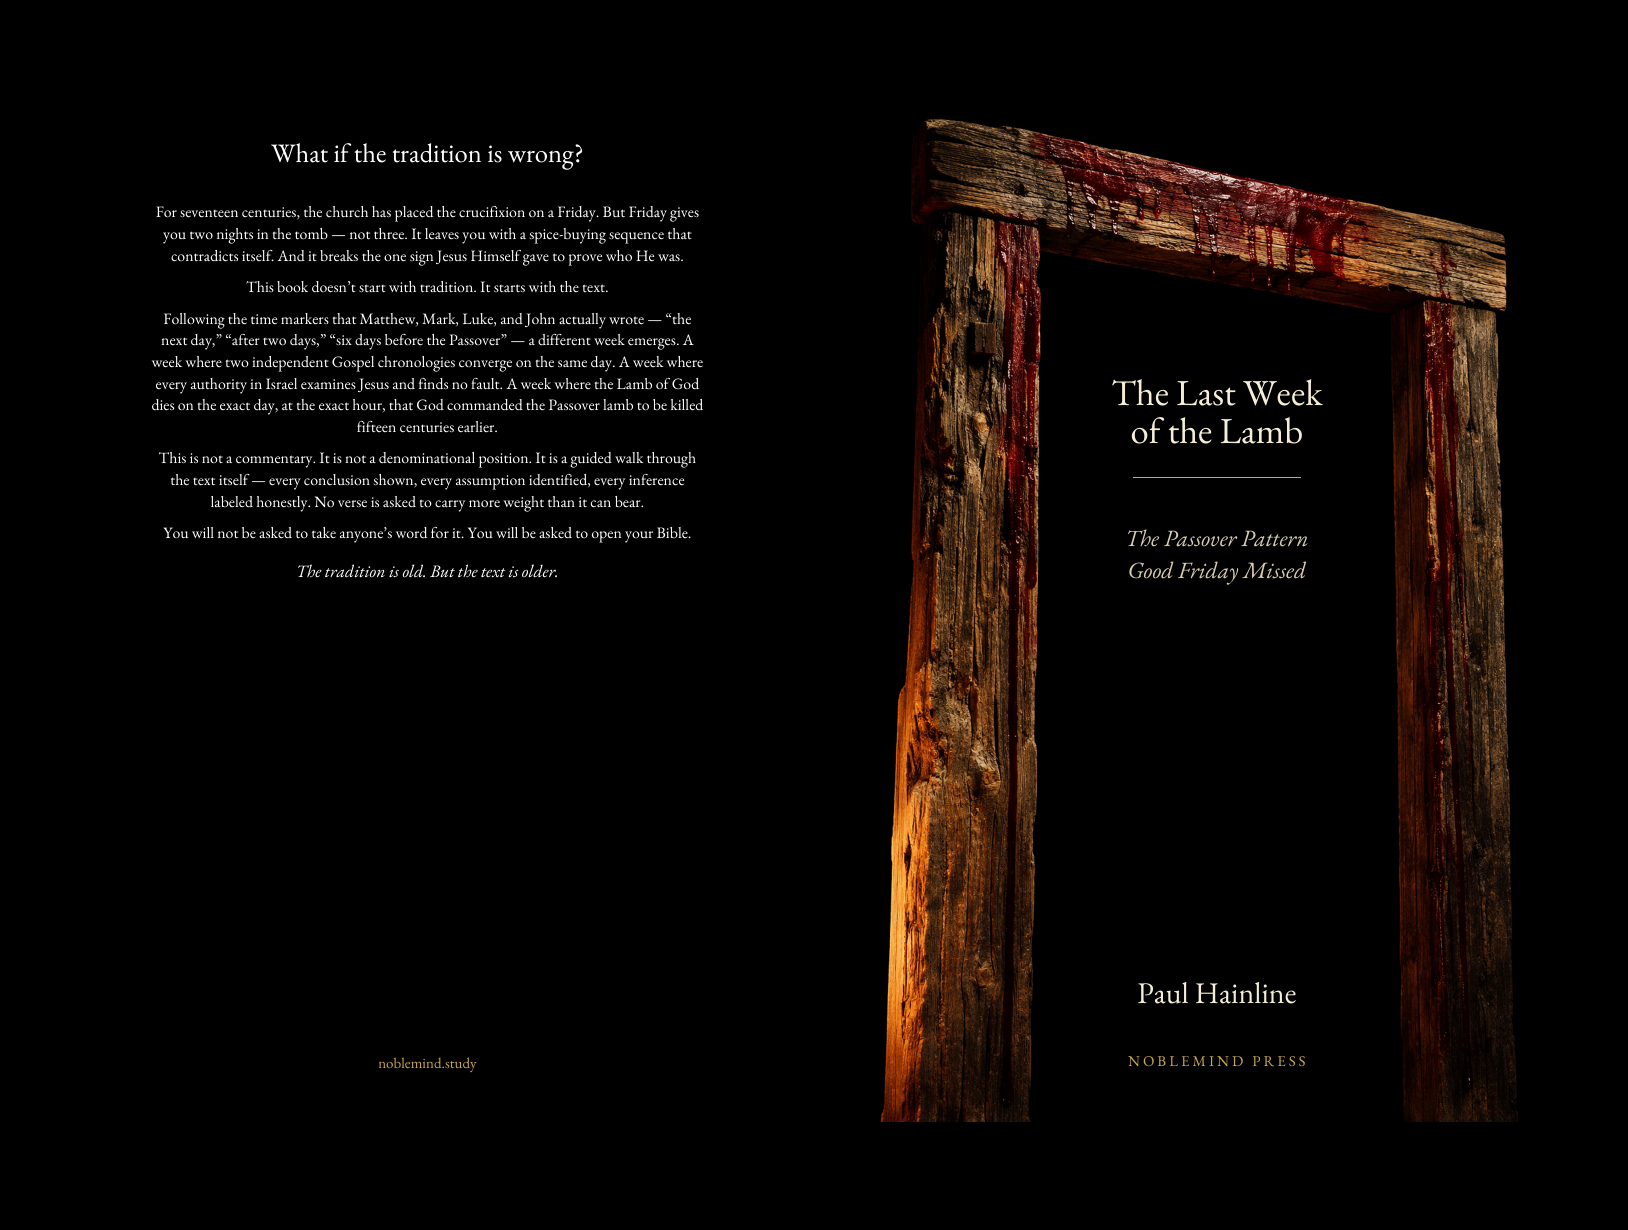
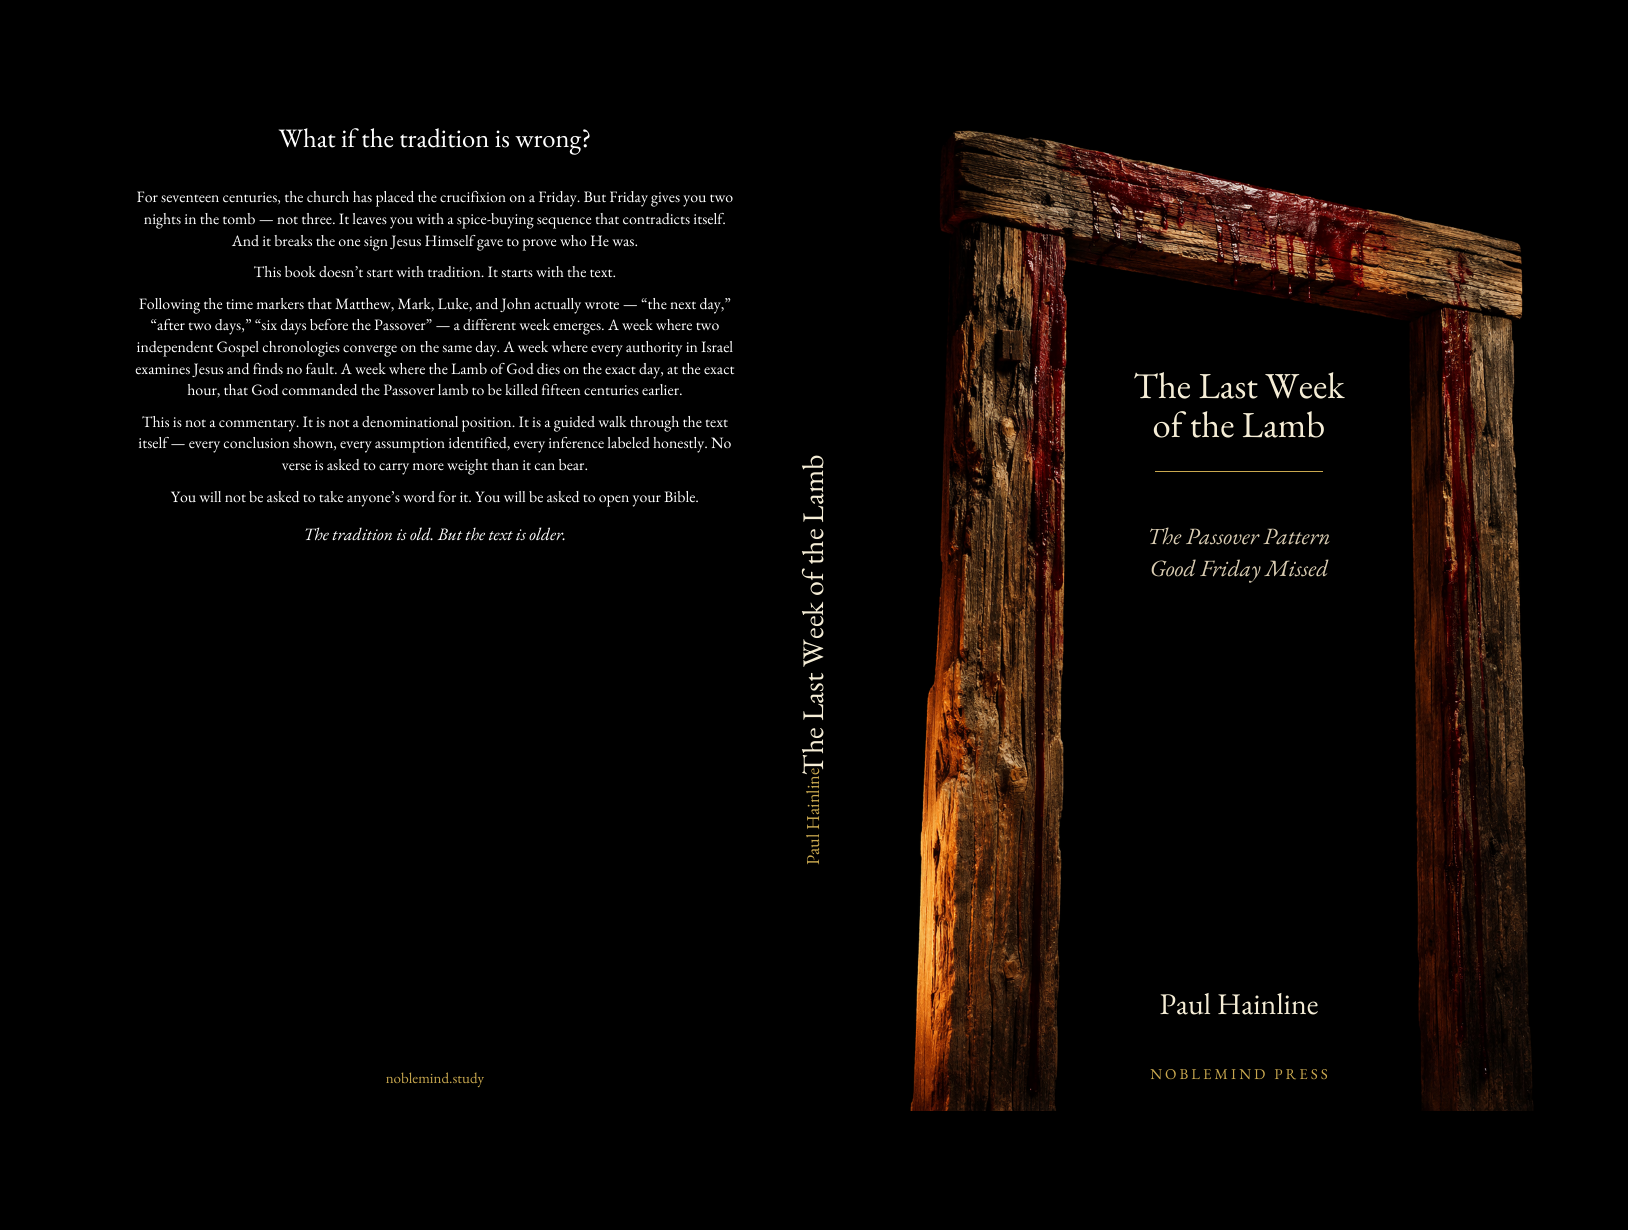
TLWOTL hardcover: correct panel geometry + hinge clearance + spine title
Re-downloaded Lulu case-wrap template (case-wrap-cover-template.pdf)
revealed three issues in the existing cover:

1. Panel geometry was wrong.
   Old: 5.625 x 8.75 panels + 0.75 wrap (sums to 13.563 x 10.25 but
        panel BOUNDARIES were wrong -- content sat 0.0625" toward the
        spine of the true visible area on every panel)
   New: 5.75 x 9.00 panels + 0.625 wrap (matches the template exactly)

2. Hinge clearance added (HINGE_CLEAR = 0.25").
   Front cover image now starts 0.25" inside the spine fold instead of
   right at the fold, so the doorframe edge no longer disappears into
   the hinge groove of the bound book. Image is fit-by-width to
   (TRIM_W - HINGE_CLEAR); the dark-well center reference for the
   title overlay was updated to track the new image position, so the
   type stays centered on the same visual axis as before.

   Back cover blurb now uses a 0.25" inner-spine margin (was 0.5"
   symmetric) and is centered in the SAFE area, not the panel -- so
   the blurb visually breathes away from the spine while keeping the
   same 0.5" outer-edge margin.

3. Spine title added.
   "The Last Week of the Lamb" in cream EB Garamond 18pt, with
   "Paul Hainline" in gold 11pt, rotated 90deg to read bottom-to-top
   per US shelf convention.

No interior change; page count unchanged at 224. Lulu hardcover
product needs the updated cover re-uploaded.

diff --git a/TheLastWeekOfTheLamb/generate_lulu_hardcover_cover.py b/TheLastWeekOfTheLamb/generate_lulu_hardcover_cover.py
@@ -45,19 +45,24 @@ pdfmetrics.registerFont(TTFont("EBGaramond", str(FONT_DIR / "EBGaramond.ttf")))
 pdfmetrics.registerFont(TTFont("EBGaramond-Italic", str(FONT_DIR / "EBGaramond-Italic.ttf")))
 
 # --- Document dimensions (from Lulu template) ---
-# NOTE: a hardcover case board is 0.125" larger than the book block on
-# top, bottom, and outside (industry-standard "squares" / overhang).
-# So the VISIBLE case per panel is 5.625 x 8.75, not 5.5 x 8.5, and the
-# wrap allowance that folds around the case boards is 0.75" on each
-# outside edge (not 0.875). Layout check:
-#   0.75 + 5.625 + 0.813 + 5.625 + 0.75 = 13.563  (width)
-#   0.75 + 8.75 + 0.75                 = 10.25   (height)
+# Pulled from case-wrap-cover-template.pdf (re-downloaded 2026-05-21):
+#   Total: 13.563" x 10.25"
+#   Book trim: 5.75" x 9" per panel (board including 0.125" outside / 0.25" top+bottom overhang)
+#   Spine: 0.813"
+#   Wrap area: 0.625" on each outside edge (was 0.75" — corrected)
+# Layout check:
+#   0.625 + 5.75 + 0.813 + 5.75 + 0.625 = 13.563  (width)
+#   0.625 + 9.00 + 0.625                = 10.25   (height)
 DOC_W = 13.563 * inch
 DOC_H = 10.25 * inch
 SPINE_W = 0.813 * inch
-WRAP = 0.75 * inch
-CASE_W = 5.625 * inch   # visible panel width (board including 0.125 overhang)
-CASE_H = 8.75 * inch    # visible panel height (board including overhangs)
+WRAP = 0.625 * inch
+CASE_W = 5.75 * inch    # visible panel width (board including overhang)
+CASE_H = 9.00 * inch    # visible panel height (board including overhangs)
+
+# Hinge clearance — keep content inside the spine fold on each panel,
+# so it doesn't disappear into the hinge groove of a bound hardcover.
+HINGE_CLEAR = 0.25 * inch
 
 # --- Layout anchors (document coordinates) ---
 # Visible back case
@@ -113,20 +118,17 @@ def draw_background(c):
 
 
 def draw_front_cover_image(c):
-    """Draw the doorframe image fit-by-width into the visible front trim.
-
-    The image's aspect (0.667) is wider than the trim's aspect (0.647), so
-    fitting by width leaves small black bands (~0.128 in) at the top and
-    bottom of the trim. Those bands blend into the image's own black
-    background and are imperceptible.
+    """Draw the doorframe image fit-by-width into the visible front trim,
+    with HINGE_CLEAR breathing room on the spine side so the image
+    doesn't disappear into the hinge groove.
     """
     img = ImageReader(str(IMAGE_FILE))
     iw, ih = img.getSize()
     img_aspect = iw / ih
 
-    draw_w = TRIM_W
+    draw_w = TRIM_W - HINGE_CLEAR
     draw_h = draw_w / img_aspect
-    draw_x = FRONT_TRIM_LEFT
+    draw_x = FRONT_TRIM_LEFT + HINGE_CLEAR
     draw_y = TRIM_CY - (draw_h / 2)
 
     c.drawImage(
@@ -141,8 +143,15 @@ def frac_to_front_pdf_y(frac_from_top):
 
 
 def draw_front_cover_text(c):
-    """Title / gold rule / subtitle / author / imprint — matches the mockup."""
-    cx = FRONT_TRIM_LEFT + (DARK_CENTER_X_FRAC * TRIM_W)
+    """Title / gold rule / subtitle / author / imprint — matches the mockup.
+
+    Text rides over the doorframe image. The image was shifted right by
+    HINGE_CLEAR and narrowed by the same amount, so the dark-well center
+    is now measured against (FRONT_TRIM_LEFT + HINGE_CLEAR, TRIM_W - HINGE_CLEAR).
+    """
+    image_left = FRONT_TRIM_LEFT + HINGE_CLEAR
+    image_width = TRIM_W - HINGE_CLEAR
+    cx = image_left + (DARK_CENTER_X_FRAC * image_width)
 
     # --- Title ---
     c.setFillColor(CREAM)
@@ -185,12 +194,16 @@ def draw_front_cover_text(c):
 # BACK COVER
 # ---------------------------------------------------------------------------
 
-# Back cover safe area — 0.5" inside the visible back trim
+# Back cover safe area — 0.5" outer edges, HINGE_CLEAR on the spine side
+# so blurb text doesn't crowd the hinge groove.
 BACK_SAFE_LEFT = BACK_TRIM_LEFT + 0.5 * inch
-BACK_SAFE_RIGHT = BACK_TRIM_RIGHT - 0.5 * inch
+BACK_SAFE_RIGHT = BACK_TRIM_RIGHT - HINGE_CLEAR
 BACK_SAFE_TOP = TRIM_TOP - 0.5 * inch
 BACK_SAFE_BOTTOM = TRIM_BOTTOM + 0.5 * inch
 BACK_TEXT_WIDTH = BACK_SAFE_RIGHT - BACK_SAFE_LEFT
+# The visual center of the safe area (NOT the panel center) — keeps the
+# blurb breathing away from the hinge.
+BACK_SAFE_CX = (BACK_SAFE_LEFT + BACK_SAFE_RIGHT) / 2
 
 
 def wrap_text(c, text, font_name, font_size, max_width):
@@ -221,7 +234,7 @@ def draw_back_cover(c):
       - Italic closing tagline: "The tradition is old. But the text is older."
       - Footer: noblemind.study
     """
-    cx = BACK_TRIM_CX
+    cx = BACK_SAFE_CX
     c.setFillColor(WHITE)
 
     # Hook — tagline weight
@@ -302,6 +315,46 @@ def draw_back_cover(c):
 
 
 # ---------------------------------------------------------------------------
+# SPINE
+# ---------------------------------------------------------------------------
+
+def draw_spine(c):
+    """Title + author centered on the spine, reading bottom-to-top (US convention).
+
+    Spine is 0.813" wide. Type sized to clear ~0.1" on each side of the
+    spine band. Title in cream EB Garamond, author in gold below the title
+    block. Both rotated 90° so they read upward when the book stands on a
+    shelf with the front cover facing the reader.
+    """
+    spine_cx = (SPINE_LEFT + SPINE_RIGHT) / 2
+    spine_cy = (TRIM_TOP + TRIM_BOTTOM) / 2
+
+    title = "The Last Week of the Lamb"
+    author = "Paul Hainline"
+
+    title_size = 18
+    author_size = 11
+
+    c.saveState()
+    c.translate(spine_cx, spine_cy)
+    c.rotate(90)
+    # After rotation: +x is up (toward TRIM_TOP), +y is toward the back cover.
+    # We want the title centered horizontally on the spine, so leave y=0.
+    # Title sits slightly forward (toward TRIM_TOP) of dead center; author
+    # sits behind it (toward TRIM_BOTTOM) for traditional spine layout.
+    c.setFillColor(CREAM)
+    c.setFont("EBGaramond", title_size)
+    c.drawCentredString(0, -title_size / 3, title)
+
+    c.setFillColor(GOLD)
+    c.setFont("EBGaramond", author_size)
+    title_width = c.stringWidth(title, "EBGaramond", title_size)
+    author_x_offset = -(title_width / 2) - 0.35 * inch
+    c.drawCentredString(author_x_offset, -author_size / 3, author)
+    c.restoreState()
+
+
+# ---------------------------------------------------------------------------
 # PREVIEW
 # ---------------------------------------------------------------------------
 
@@ -329,7 +382,7 @@ def main():
     draw_front_cover_image(c)
     draw_front_cover_text(c)
     draw_back_cover(c)
-    # Spine intentionally left blank
+    draw_spine(c)
 
     c.save()
     print(f"  PDF saved to {OUTPUT_PDF}")
